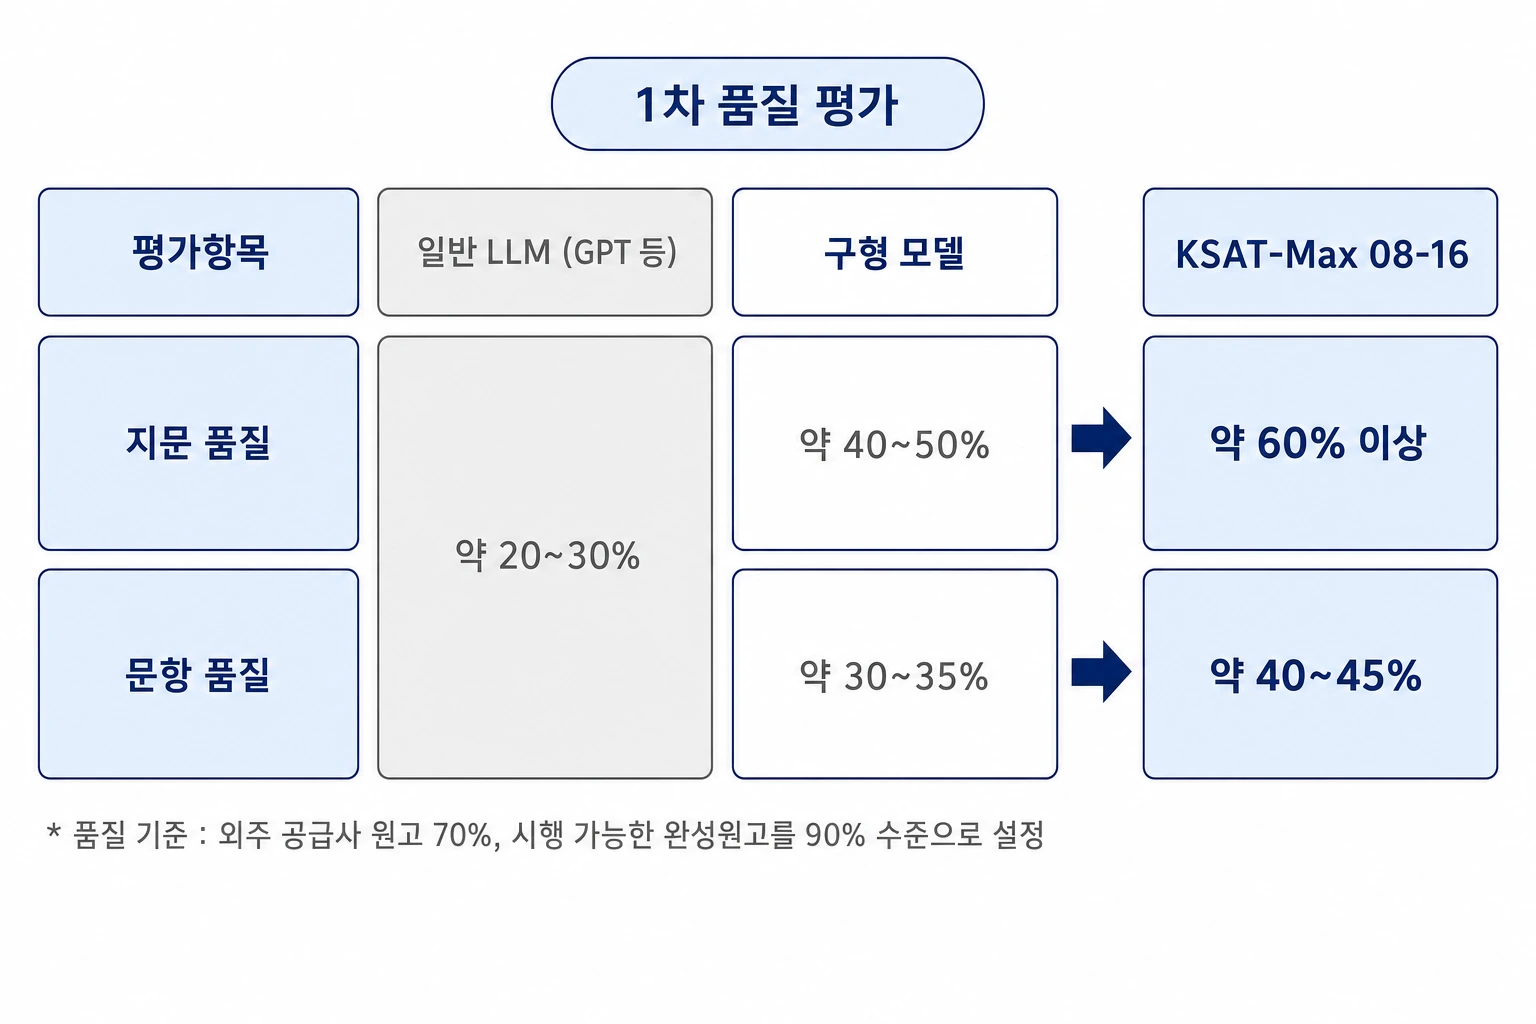
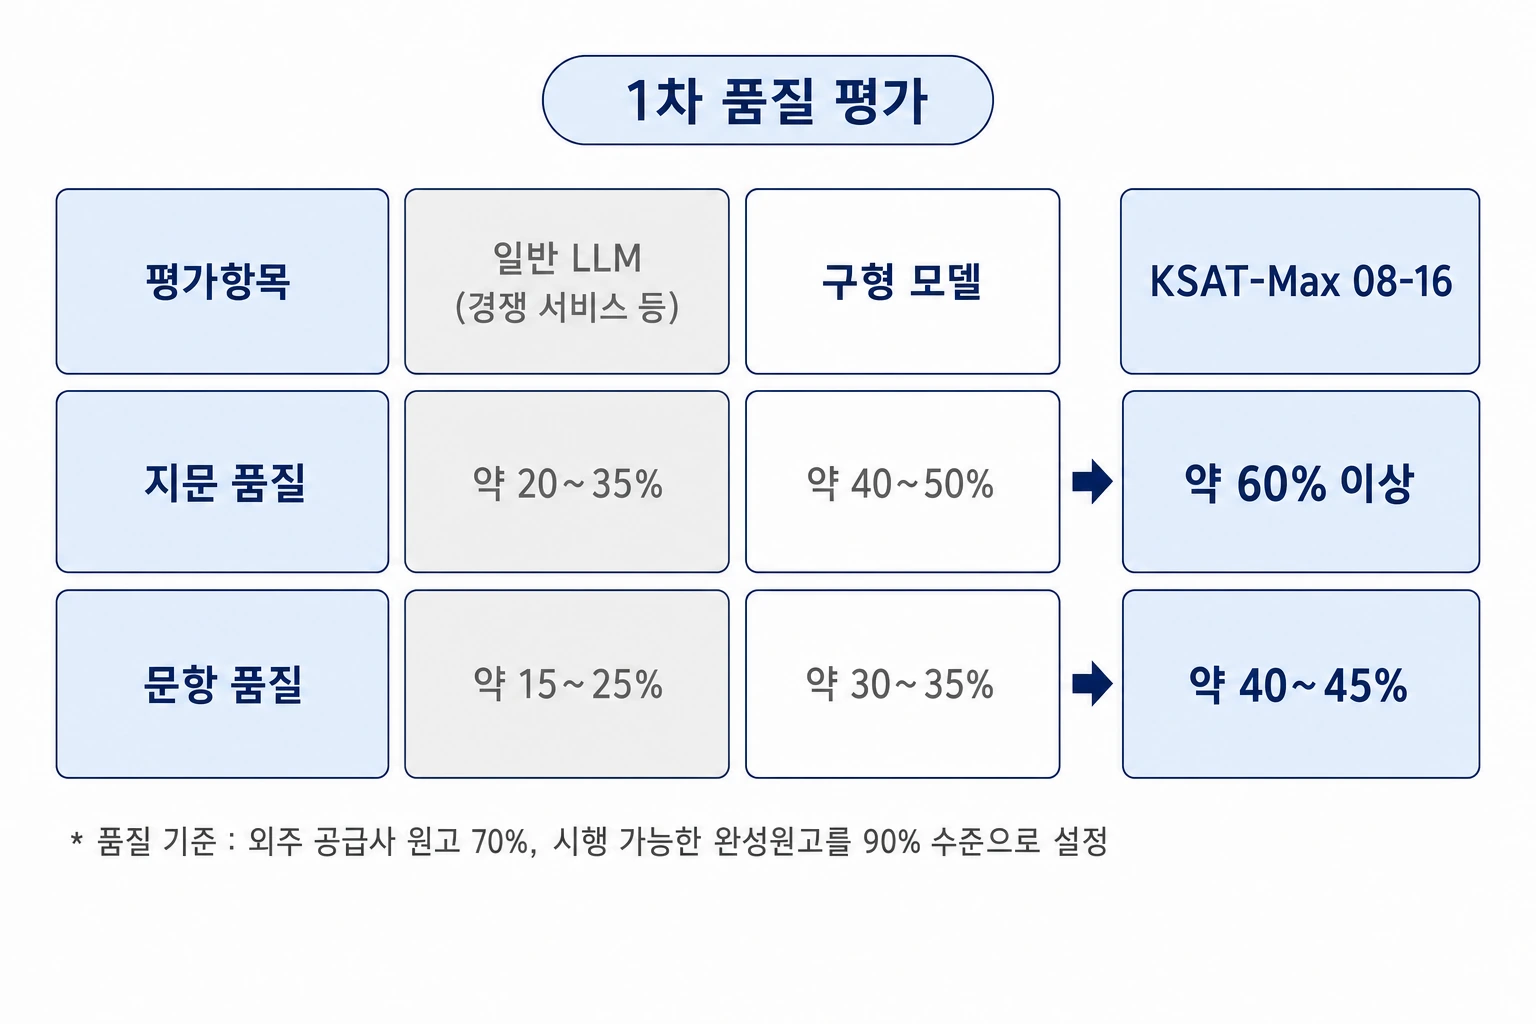
일반 LLM의 지문과 문항 품질을 분리한다
외부 검토 결과에 맞춰 지문 품질을 20~35%, 문항 품질을 15~25%로 나누고
비교 열의 이름을 일반 LLM과 경쟁 서비스 등으로 적는다.

diff --git a/research/ksat-agent.html b/research/ksat-agent.html
@@ -272,7 +272,7 @@
 
 <h3>1. 요약</h3>
 <figure class="shots single compact">
-  <img src="../assets/research/ksat-agent/quality.webp?v=20260826-1" alt="일반 LLM은 지문과 문항 모두 약 20~30%, 구형 모델은 지문 약 40~50%·문항 약 30~35%, KSAT-Max 08-16은 지문 약 60% 이상·문항 약 40~45%로 정리한 표. 품질 기준은 외주 공급사 원고 70%, 시행 가능한 완성원고 90% 수준">
+  <img src="../assets/research/ksat-agent/quality.webp?v=20260827-1" alt="일반 LLM은 지문 품질 약 20~35%·문항 품질 약 15~25%, 구형 모델은 지문 약 40~50%·문항 약 30~35%, KSAT-Max 08-16은 지문 약 60% 이상·문항 약 40~45%로 정리한 표. 품질 기준은 외주 공급사 원고 70%, 시행 가능한 완성원고 90% 수준">
 </figure>
 <ul>
   <li>전문가 개요를 반영해 재생성하면 문단 간 연결과 표현이 개선됐습니다.</li>
